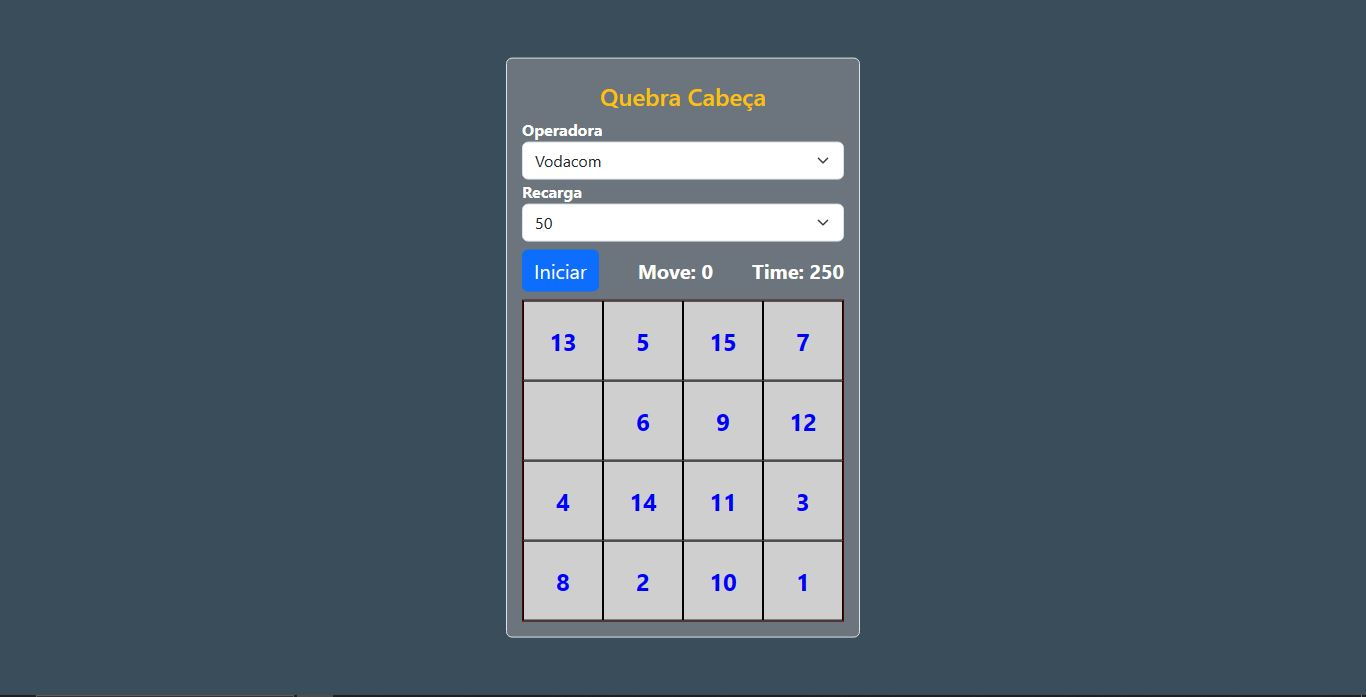
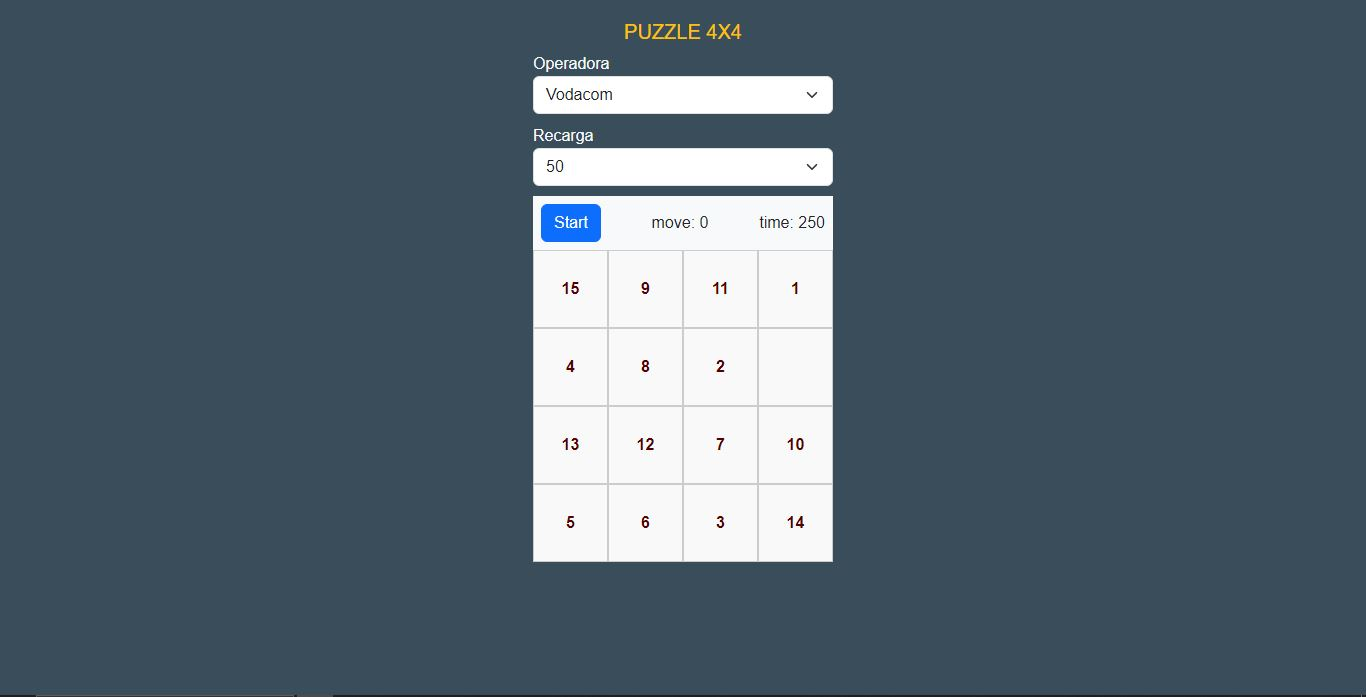
first commit

Changed region(s): [[0.369, 0.0301, 0.6457, 0.934]]

diff --git a/index.html b/index.html
@@ -9,16 +9,15 @@
     <title>Puzzle</title>
 </head>
 <body>
-
-    <!-- elemento 1: sao apresentados resultados do jogo: ganhou | perdeu -->
-    <div class="fixed-top w-100 h-100 d-none fim align-items-center justify-content-center">
+     <!-- elemento 1: sao apresentados resultados do jogo: ganhou | perdeu -->
+     <div class="fixed-top w-100 h-100 d-none fim align-items-center justify-content-center">
         <div class="alert alert-danger bg-white p-4 d-none perder align-items-center justify-content-center flex-column">
             <h6>voce perdeu</h6>
             <button class="btn btn-primary mt-4">ok</button>
         </div>
         <div class="alert alert-success bg-white p-4 d-none ganhar align-items-center justify-content-center flex-column">
             <h4>Parabens</h4>
-            <h6 class="recarga">
+            <h6 class="recarga d-flex justify-content-center align-items-center">
                 Recarga:
                 <span id="codigo">716394639725</span>
             </h6>
@@ -26,61 +25,45 @@
         </div>
     </div>
     <!-- fim elemento 1 -->
+    <div class="cont py-5">
+        
+        <h5 class="text-warning">PUZZLE 4X4</h5>
 
-    <!-- elemento 2: apresenta titulo do jogo operadora, valor de recarga e tabuleiro de numeros  -->
-    <div class="cont rounded bg-secondary border">
-
-        <!-- elemento 2.1: apresenta titulo do jogo -->
-        <div class="w-100">
-            <h4 class="text-warning text-center m-1 rounded p-1">Quebra Cabeça</h4>
+        <div class="operadora d-flex">
+            <label class="w-100 d-flex flex-column">
+                <span class="text-light">Operadora</span>
+                <select class="form-select select-operadora">
+                    <option value="Vodacom">Vodacom</option>
+                    <option value="Movitel">Movitel</option>
+                    <option value="TMcel">TMcel</option>
+                </select>
+            </label>
         </div>
-        <!-- fim elemento 2.1 -->
 
-        <!-- elemento 2.2:  apresenta operadora, valor de rearga e tabuleiro de numeros; contador de movimentos e tempo-->
-        <div class="col w-100">
-
-            <!-- elemento 2.2.1: apresenta operadora, valor da recarga -->
-            <div class="text-white w-100 operadora">
-                <label class="w-100 ">
-                    <span>Operadora</span>
-                    <select class="form-select select-operadora">
-                        <option value="Vodacom">Vodacom</option>
-                        <option value="Movitel">Movitel</option>
-                        <option value="TMcel">TMcel</option>
-                    </select>
-                </label>
-                <label class="w-100">
-                    <span>Recarga</span>
-                    <select class="form-select select-valor">
-                        <option value="50">50</option>
-                    </select>
-                </label>
-            </div>
-            <!-- fim elemento 2.2.1 -->
-
-            <!-- elemento 2.2.2: contador de movimentos e tempo -->
-            <div class="d-flex w-100 menu pt-2 pb-2 text-white">
-                <button class="btn btn-primary rounded">
-                    Iniciar
-                </button>
-                <span class="move">
-                    move: 0
-                </span>
-                <span class="time">
-                  time: 250
-                </span>
-            </div>
-            <!-- fim elemento 2.2.2 -->
-
-            <!--  elemento 2.2.3: tabuleiro de numeros aleatorios-->
-            <div class="puzzle" style="position: relative;"></div>
-            <!-- fim elemento 2.2.3 -->
-            
+        <div class="recarga d-flex">
+            <label class="d-flex w-100 flex-column">
+                <span class="text-light">Recarga</span>
+                <select class="form-select select-valor">
+                    <option value="50">50</option>
+                </select>
+            </label>
         </div>
-        <!-- fim elemento 2.2 -->
 
+        <div class="d-flex menu menu p-2 text-dark bg-light justify-content-between align-items-center">
+            <button class="btn btn-primary rounded">
+                Start
+            </button>
+            <span class="move">
+                move: 0
+            </span>
+            <span class="time">
+              time: 250
+            </span>
+        </div>
+
+        <div class="puzzle puzzle-container">
+        </div>
     </div>
-    <!-- fim elemento 2 -->
     <script src="static/bootstrap/js/bootstrap.js"></script>
     <script src="static/js/js.js"></script>
 </body>

diff --git a/static/js/js.js b/static/js/js.js
@@ -12,33 +12,37 @@ function shuffleArray(array) {
 var numeros = Array.from({ length: 16 }, (_, index) => index + 1);
 
 // Embaralhar o array aleatoriamente
-// numeros = shuffleArray(numeros);
+numeros = shuffleArray(numeros);
 
 // Obter a referência do elemento <div> do tabuleiro
 var numerosAleatoriosDiv = document.querySelector('.puzzle');
 
-// Gerar números aleatórios e adicionar ao elemento <div>
+// Gerar numeros aleatórios e adicionar ao elemento <div>
 
 for (var i = 0; i < 4; i++) {
   for(var j = 0; j < 4; j++) {
     index = i * 4 + j
     var numeroAleatorio = numeros[index];
     var numeroElemento = document.createElement('button');
+    numeroElemento.classList.add('button');
+    var span = document.createElement('span');
     const atributos = {
       'data-linha': i,
       'data-coluna': j
     };
     for (const chave in atributos) {
       if (atributos.hasOwnProperty(chave)) {
-        numeroElemento.setAttribute(chave, atributos[chave]);
+        span.setAttribute(chave, atributos[chave]);
       }
     }
-    numeroElemento.textContent = numeroAleatorio === 16 ? '' : numeroAleatorio;
+    
+    span.textContent = numeroAleatorio === 16 ? '' : numeroAleatorio;
+    numeroElemento.appendChild(span);
     numerosAleatoriosDiv.appendChild(numeroElemento);
   }
 }
-    // Obter todos os botões do jogo
-    const botoes = document.querySelectorAll('.puzzle button');
+    // Obter todos os botoes do jogo
+    const botoes = document.querySelectorAll('.puzzle button span');
     var estadoDoJogo = "parado"; // Inicialmente, o jogo este parado
 
 
@@ -121,7 +125,7 @@ for (var i = 0; i < 4; i++) {
        if(estadoDoJogo === 'parado'){
         jogoIniciado = true;
         estadoDoJogo = 'jogando';
-        botaoIniciar.innerHTML = 'Recomeçar';
+        botaoIniciar.innerHTML = 'Restart';
         // Obter o elemento span do tempo
         const tempoSpan = document.querySelector('.menu .time');
 
@@ -133,7 +137,7 @@ for (var i = 0; i < 4; i++) {
               tempoSpan.textContent = `time: ${tempoRestante}`;
               if (tempoRestante === 0) {
 
-                 jogada(false);
+                jogada(false);
                 clearInterval(intervalo);
                 perder.classList.remove('d-none');
                 perder.classList.add('d-flex');

diff --git a/static/css/style.css b/static/css/style.css
@@ -1,47 +1,57 @@
-html, body{
-    background-color: #3a4d5a;
-    margin: 0;
-    text-transform: capitalize;
-    font-weight: bold;
+* {
+    box-sizing: border-box;
 }
-.cont{
+
+body {
+    margin: 0;
+    padding: 0;
+    font-family: Arial, sans-serif;
+    background-color: #3a4d5a;
+}
+
+.cont {
+    max-width: 600px;
+    margin: 0 auto;
+    padding: 20px;
+}
+
+h5 {
+    text-align: center;
+}
+
+select{
+    width: 100%;
+    padding: 10px;
+    margin-bottom: 10px;
+}
+
+.menu, .recarga, .operadora, .puzzle-container {
+    display: grid;
+    grid-template-columns: repeat(4, 1fr);
+    /* grid-gap: 10px; */
+    max-width: 300px;
+    margin: 0 auto;
+}
+
+.puzzle-container .button {
+    padding-top: 100%;
+    position: relative;
+    text-align: center;
+    border: 1px solid #ccc;
+    background-color: #f9f9f9;
+    cursor: pointer;
+}
+
+.puzzle-container .button span {
+    width: 100%;
+    height: 100%;
     position: absolute;
     top: 50%;
     left: 50%;
-    transform: translate(-50%,-50%);
-    padding: 15px;
-}
-.col{
+    transform: translate(-50%, -50%);
     display: flex;
-    flex-direction: column;
     justify-content: center;
-    align-items: center;
-}
-.menu{
-    display: flex;
-    justify-content: space-between;
-    align-items: center;
-}
-.menu button{
-    border: none;
-    font-size: 20px;
-    justify-content: center;
-    align-items: center;
-}
-.menu span{
-    text-align: center;
-    font-size: 20px;
-}
-.puzzle{
-    display: grid;
-    grid-template-columns: 80px 80px 80px 80px;
-    grid-template-rows: 80px 80px 80px 80px;
-    border: 1px solid #550000;
-}
-.puzzle button{
-    background-color: #cfcfcf;
-    color: blue;
-    border: 1px solid black;
-    font-size: 24px;
+    color: #550000;
     font-weight: bold;
+    align-items: center;
 }
